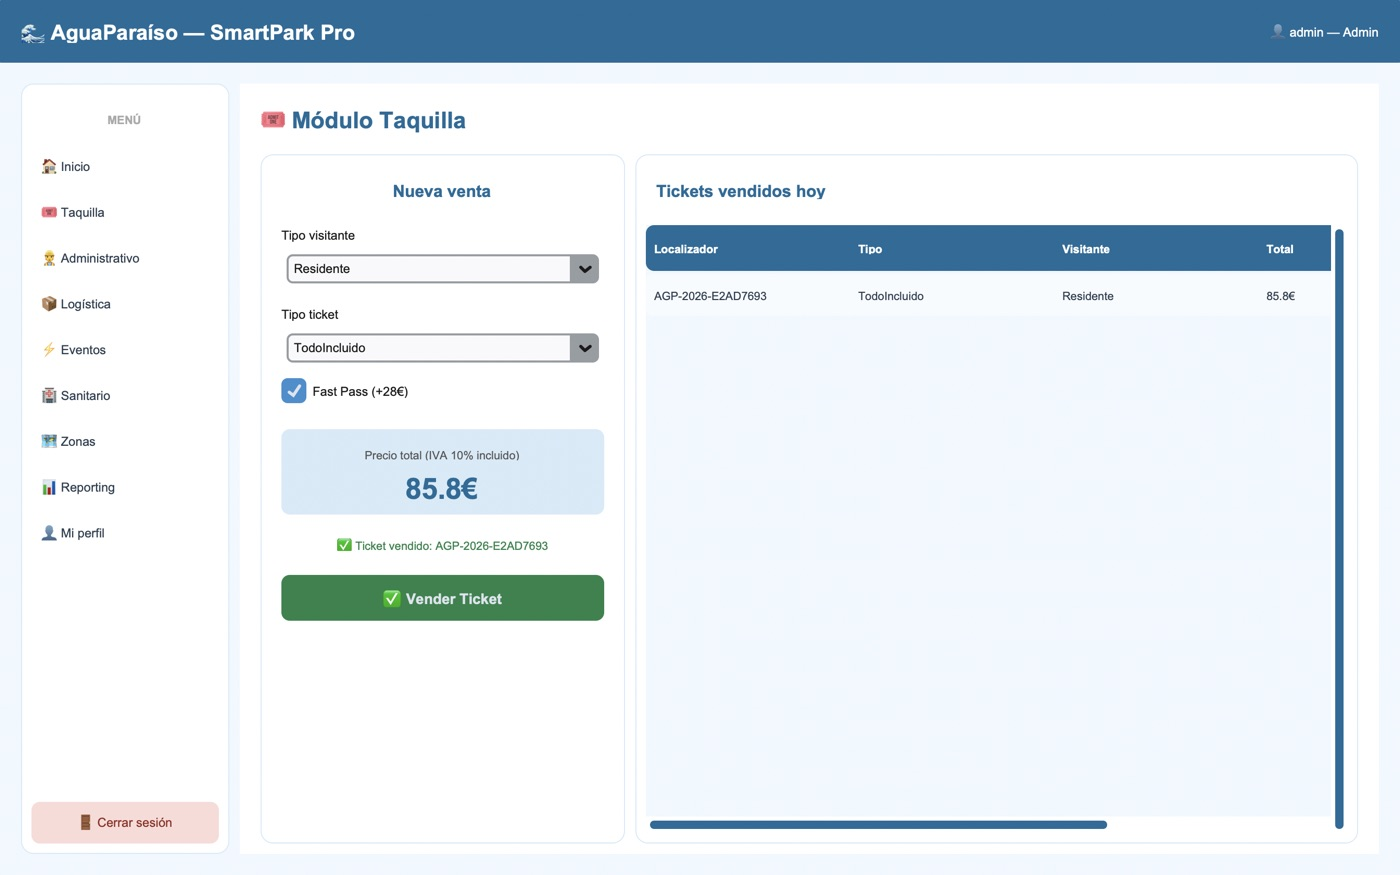
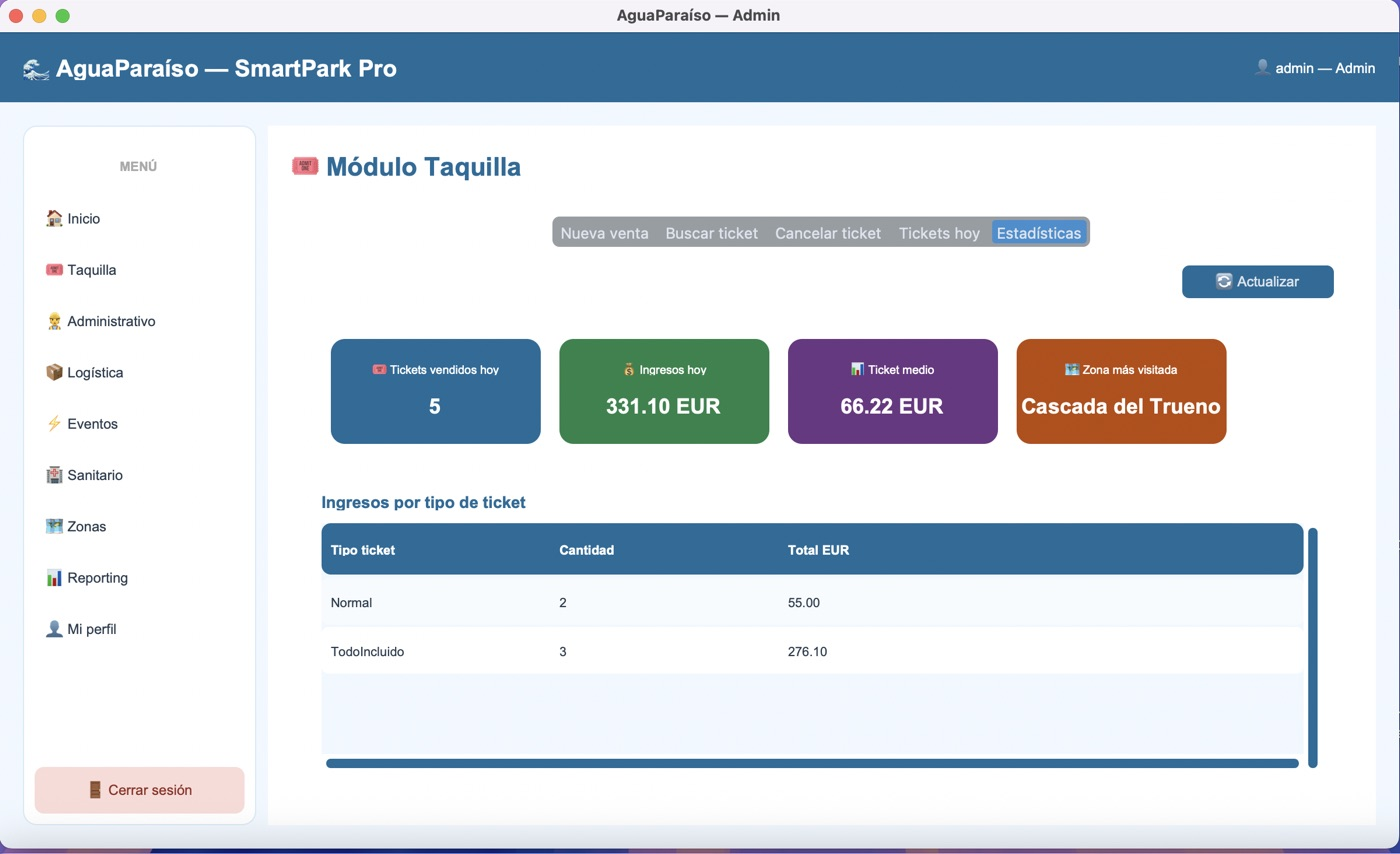
Actualizar captura de taquilla de SmartPark

diff --git a/index.html b/index.html
@@ -222,7 +222,7 @@ badge:"Buscando prácticas FCT",role:"Desarrollador web junior con base en redes
 pitch:"Estudio Desarrollo de Aplicaciones Web (2.º curso) y vengo de la administración de redes y sistemas. Me gusta construir aplicaciones completas, desde la API hasta la interfaz, cuidando la seguridad de los datos.",
 bProj:"Ver proyectos",bCont:"Contactar",bCV:"Descargar CV",s1:"proyectos completos",s2:"roles de acceso",s3:"idiomas en la web",
 hProj:"Proyectos",code:"Ver código en GitHub →",
-aW1:"Portada de la web pública con vista de la Alhambra",aW2:"Categorías de la tienda en la web pública",aP1:"Dashboard del panel con ventas y métodos de pago",aP2:"Listado de productos del panel de administración",sP1:"Pantalla de inicio de sesión de SmartPark Pro",sP2:"Panel de control de SmartPark Pro con eventos activos",sP3:"Módulo de taquilla con venta de tickets",sP4:"Módulo de reporting con ganancias por tipo de ticket",
+aW1:"Portada de la web pública con vista de la Alhambra",aW2:"Categorías de la tienda en la web pública",aP1:"Dashboard del panel con ventas y métodos de pago",aP2:"Listado de productos del panel de administración",sP1:"Pantalla de inicio de sesión de SmartPark Pro",sP2:"Panel de control de SmartPark Pro con eventos activos",sP3:"Módulo de taquilla con estadísticas de ventas",sP4:"Módulo de reporting con ganancias por tipo de ticket",
 p1s:"Web pública, panel de administración y API REST para una tienda de artesanía de Granada.",
 p1p:"Proyecto personal desarrollado con asistencia de IA (Claude). Yo lo probé, revisé, corregí y documenté mientras aprendía cómo funciona.",
 p1a:"Autenticación JWT con tres roles (admin, encargado y empleado) y contraseñas con bcrypt.",
@@ -252,7 +252,7 @@ badge:"Looking for an internship",role:"Junior web developer with a networking a
 pitch:"I'm studying Web Application Development (2nd year) and I come from network and systems administration. I enjoy building complete applications, from the API to the interface, with data security in mind.",
 bProj:"View projects",bCont:"Contact me",bCV:"Download CV",s1:"complete projects",s2:"access roles",s3:"website languages",
 hProj:"Projects",code:"View code on GitHub →",
-aW1:"Home page of the public website with a view of the Alhambra",aW2:"Shop categories on the public website",aP1:"Admin panel dashboard with sales and payment methods",aP2:"Product list in the admin panel",sP1:"SmartPark Pro login screen",sP2:"SmartPark Pro control panel with active events",sP3:"Ticket office module selling tickets",sP4:"Reporting module with revenue by ticket type",
+aW1:"Home page of the public website with a view of the Alhambra",aW2:"Shop categories on the public website",aP1:"Admin panel dashboard with sales and payment methods",aP2:"Product list in the admin panel",sP1:"SmartPark Pro login screen",sP2:"SmartPark Pro control panel with active events",sP3:"Ticket office module with sales statistics",sP4:"Reporting module with revenue by ticket type",
 p1s:"Public website, admin panel and REST API for a handicraft shop in Granada.",
 p1p:"Personal project built with AI assistance (Claude). I tested, reviewed, fixed and documented it while learning how it works.",
 p1a:"JWT authentication with three roles (admin, manager and employee) and bcrypt password hashing.",
